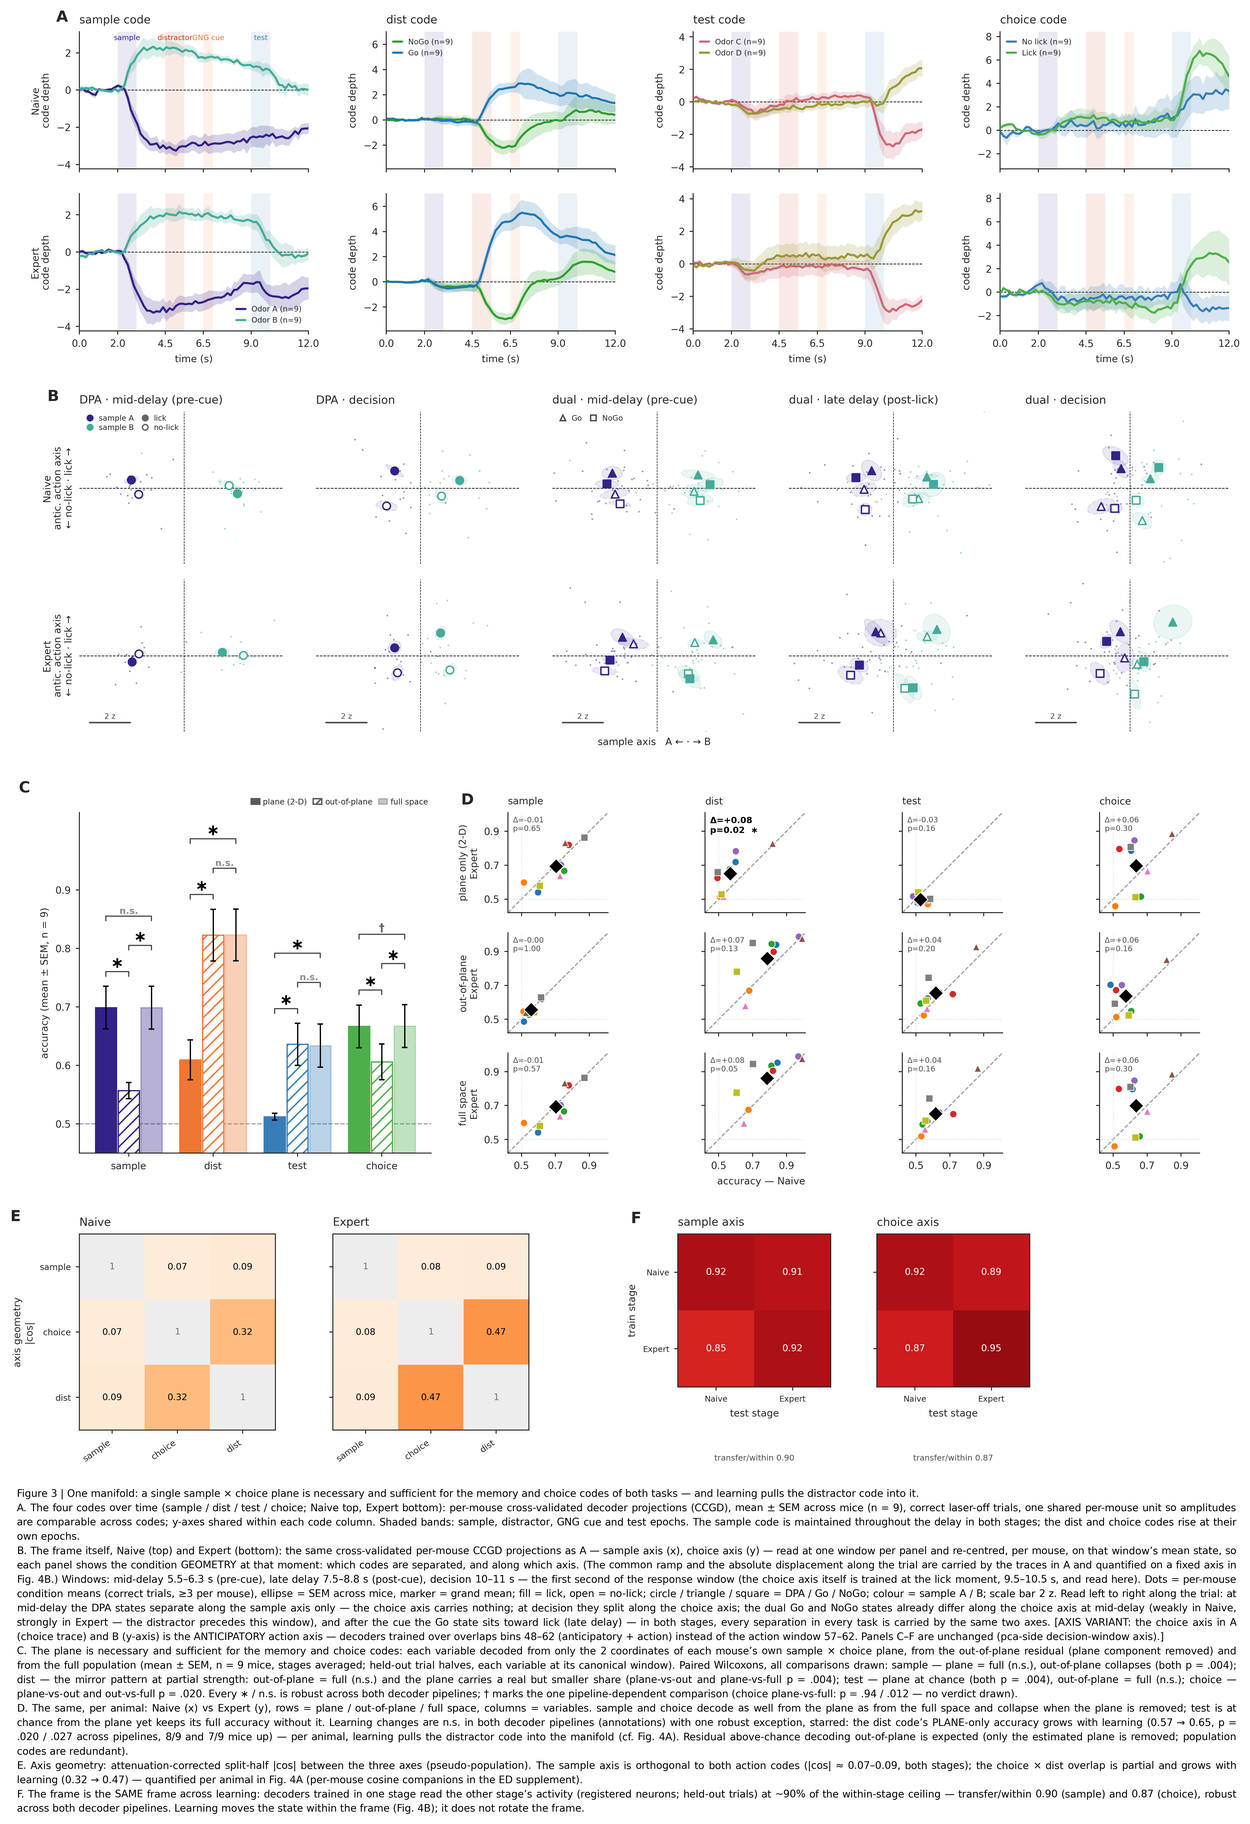
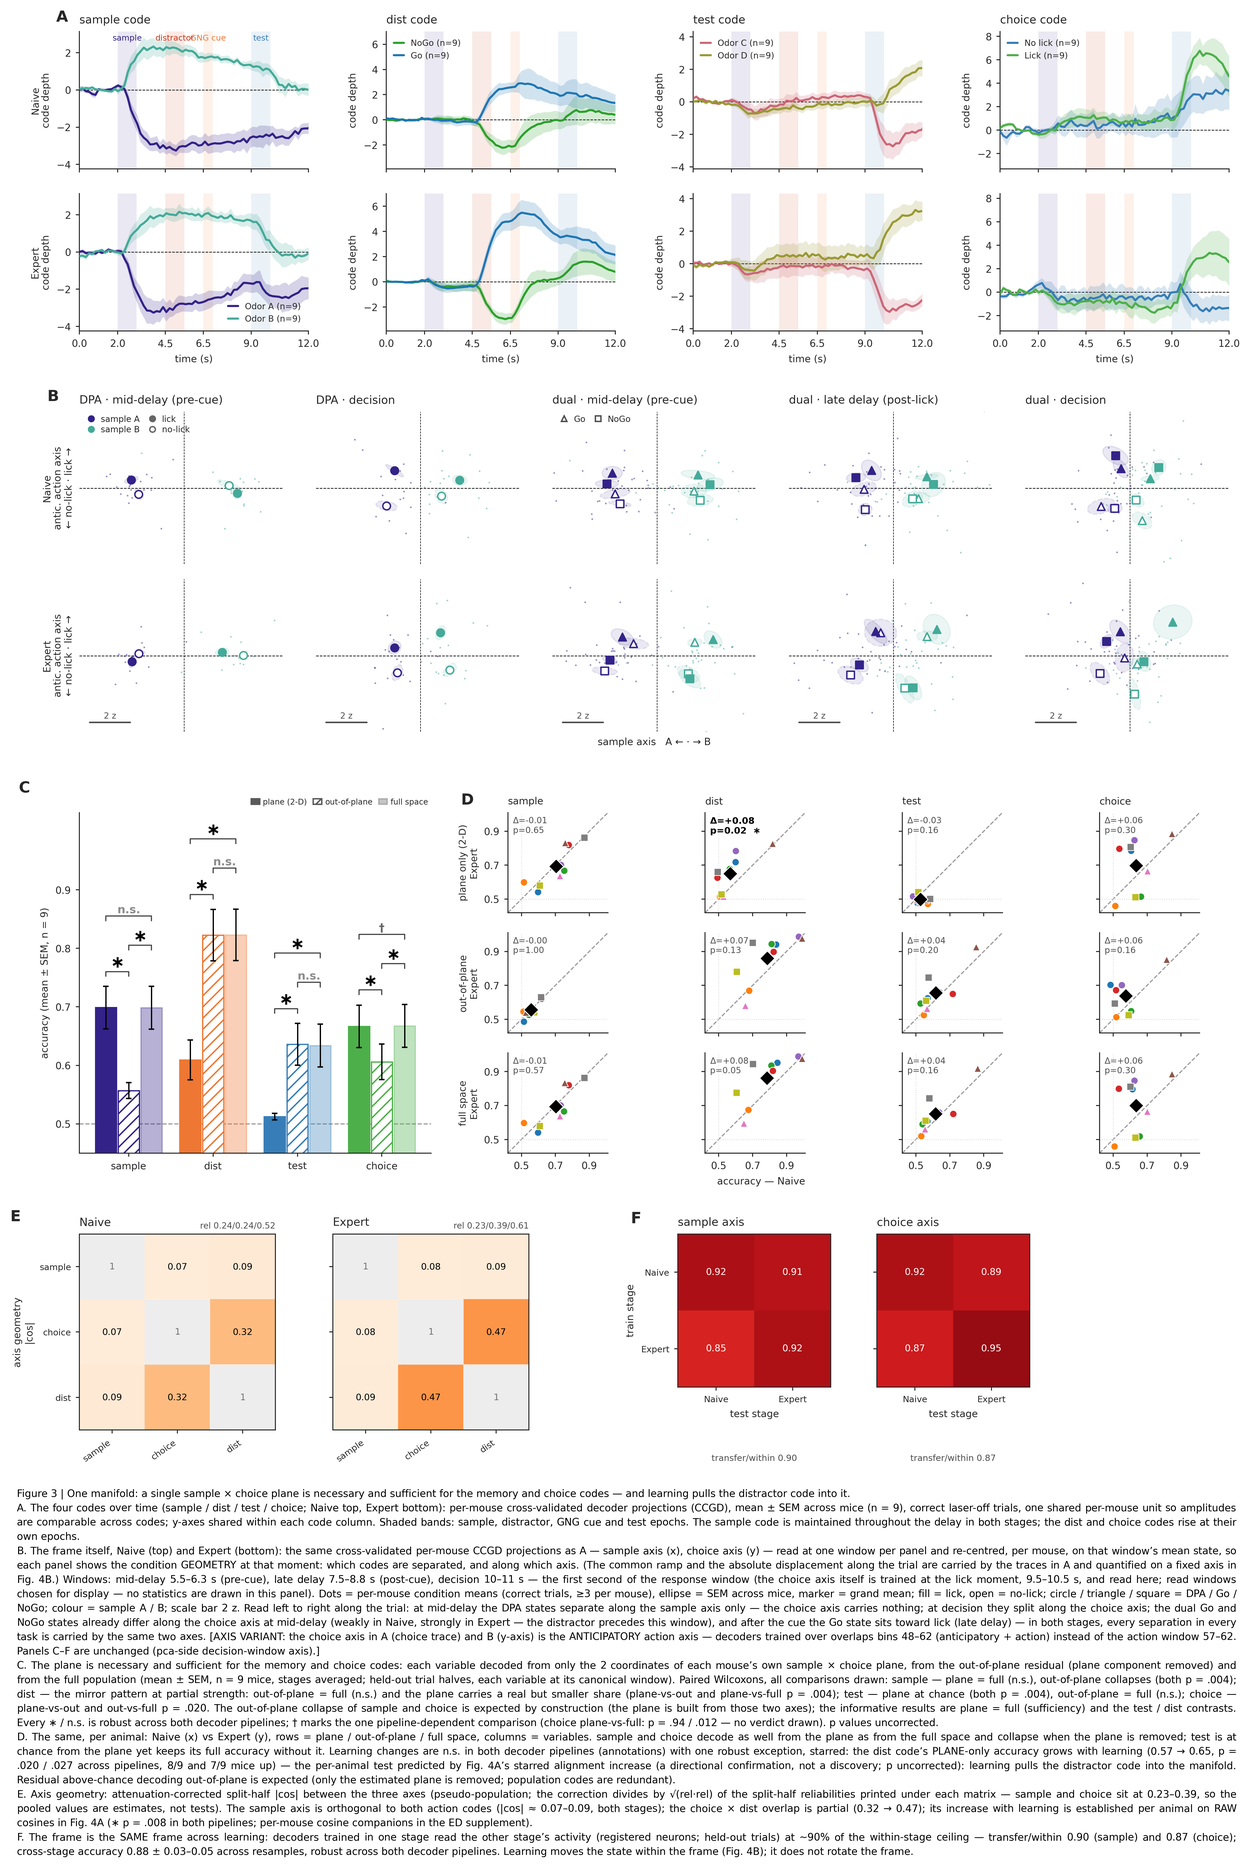
Fig 3: apply code/analysis review fixes (disclosure + hygiene; no numbers changed)
Panel E now prints its split-half reliabilities (sample/choice sit at .23-.39, near
the regime where the attenuation correction is unstable) and the caption calls the
pooled corrected cosines estimates, sourcing the learning growth to Fig 4A's
raw-cosine per-animal star. Caption C: the sample/choice out-of-plane collapse is
labeled by-construction (the plane is built from those axes) and p values are
declared uncorrected; caption D reframes the dist-plane star as the directional
confirmation predicted by Fig 4A, not a discovery. Caption F adds the resample
spread (0.88 +/- 0.03-0.05); caption B discloses display-chosen read windows; title
drops 'of both tasks'. Hygiene: stale header/docstrings fixed (storyboard replay,
SEM, no fits_inputs read), duplicate assert removed, sig markers to house 12/8,
sub-floor annotation fonts bumped.

Claude-Session: https://claude.ai/code/session_01U5815xHXRaRQ7YCxMTgCsM

diff --git a/pca/fig_manifold_main.py b/pca/fig_manifold_main.py
@@ -10,11 +10,11 @@ no-PCA (--nopca, unsuffixed filenames); the PCA-20 build is the ED robustness va
 
   A  the four codes over time (Naive | Expert rows x sample/dist/test/choice), replayed from the
      overlaps CCGD projections (ORIG_TRACES).
-  B  the frame itself — held-out pseudo-trials plotted IN the fixed axes (x = sample axis @ mid-delay,
-     y = behavioural lick axis @ decision, both trained on an independent trial half), a 2 (Naive |
-     Expert) x 5 storyboard (DPA·md -> DPA·decision -> dual·md -> dual·late -> dual·decision), each
-     row in that stage's OWN frame (axes re-fit per stage; added 2026-08-31 — the slimmed figure
-     read empty next to Figs 2/4). Metric, unlike a t-SNE map: every offset is in z units.
+  B  the frame itself — the SAME per-mouse CCGD projections as A (FRAME_STATES /
+     exp_frame_states.py), read at one window per panel and re-centred per mouse on that window's
+     cross-condition mean: a 2 (Naive | Expert) x 5 storyboard (DPA·md -> DPA·decision -> dual·md
+     -> dual·late -> dual·decision) of condition GEOMETRY only — dots = per-mouse condition means,
+     SEM ellipses; the absolute ramp/push lives in A and Fig 4B. Metric: offsets are in z units.
   C  (RESTRUCTURED 2026-08-31: the PROOF row moved up, directly answering B's plotted-in-a-plane
      objection) SUFFICIENCY summary bars: mean ± SEM of the per-mouse plane / out-of-plane / full
      accuracies (PM_PLANE / exp_permouse_plane.py), canonical timeline sample/dist/test/choice,
@@ -32,8 +32,8 @@ no-PCA (--nopca, unsuffixed filenames); the PCA-20 build is the ED robustness va
      — train the sample/choice decoders in one stage, test held-out in the other (registered
      neurons); transfer/within 0.90 / 0.87, knob-robust. Learning moves the state, not the frame.
 
-Reads caches only (no 20 GB X, no overlaps tensor): pca results.pkl + fits_inputs.pkl, and the
-overlaps ccgp caches by absolute path.
+Reads caches only (no 20 GB X, no overlaps tensor): everything comes from pca results.pkl
+(FRAME_STATES / ORIG_TRACES / PM_PLANE / AXIS_FRAME / XSTAGE_DEC).
 Run:  cd /home/leon/dual/pca && /home/leon/mambaforge/envs/dual/bin/python fig_manifold_main.py
 Output: figures/pseudo/dimensionality/{png,svg}/fig_manifold_main.{png,svg}
 """
@@ -144,7 +144,7 @@ def _centered(ENT):
 def panel_a(fig, gsA):
     """The storyboard, 2 rows (Naive | Expert) x 5 windows, replayed from FRAME_STATES (the
     panel-A CCGD projections) and re-centred per mouse per window (_centered): faint dots =
-    per-mouse condition means (>=3 trials), ellipse = 1 SD across mice, marker = the grand mean,
+    per-mouse condition means (>=3 trials), SEM ellipse across mice, marker = the grand mean,
     crosshair = the window's mean state. All ten frames share one x/y range."""
     FS = RES[FS_KEY]
     BOTH = {(st,) + sp: _centered(FS[(st,) + sp]) for st in ['Naive', 'Expert'] for sp in B_SPECS}
@@ -188,7 +188,7 @@ def panel_a(fig, gsA):
                 sx = x0 + 0.05 * (x1 - x0); sy = y0 + 0.06 * (y1 - y0)
                 ax.plot([sx, sx + 2], [sy, sy], '-', color='0.3', lw=1.1)
                 ax.text(sx + 1.0, sy + 0.015 * (y1 - y0), '2 z', ha='center', va='bottom',
-                        fontsize=5.4, color='0.3')
+                        fontsize=6.0, color='0.3')
                 if j == 2:                           # one shared x-label, centred under the grid
                     ax.set_xlabel('sample axis   A ← · → B', fontsize=7)
             if j == 0:
@@ -199,12 +199,12 @@ def panel_a(fig, gsA):
                       mlines.Line2D([], [], marker='o', ls='', ms=4, color=SAMPC[1], label='sample B'),
                       mlines.Line2D([], [], marker='o', ls='', ms=4, mfc='0.4', mec='0.4', label='lick'),
                       mlines.Line2D([], [], marker='o', ls='', ms=4, mfc='w', mec='0.4', label='no-lick')]
-                ax.legend(handles=hs, frameon=False, fontsize=5.4, loc='upper left', ncols=2,
+                ax.legend(handles=hs, frameon=False, fontsize=6.0, loc='upper left', ncols=2,
                           handletextpad=0.15, columnspacing=0.5, labelspacing=0.25, borderaxespad=0.0)
             if r == 0 and j == 2:                    # marker key on the first dual panel
                 hs = [mlines.Line2D([], [], marker='^', ls='', ms=4, mfc='none', mec='0.3', label='Go'),
                       mlines.Line2D([], [], marker='s', ls='', ms=4, mfc='none', mec='0.3', label='NoGo')]
-                ax.legend(handles=hs, frameon=False, fontsize=5.4, loc='upper left', ncols=2,
+                ax.legend(handles=hs, frameon=False, fontsize=6.0, loc='upper left', ncols=2,
                           handletextpad=0.15, columnspacing=0.5, borderaxespad=0.0)
             gm = {cd: P.mean(0) for cd, P in ENT.items()}
             ylk = np.mean([g[1] for cd, g in gm.items() if cd[2]])
@@ -249,17 +249,11 @@ def panel_traj(fig, gsT):
     but they are NOT the pseudo-population z of panel b, which answers a different question
     (position in the frame, not code depth).
     """
-    # panel a must come from the SAME decoder variant as the rest of the figure: the default
-    # figure uses PCA(20) everywhere, so it reads the traces from the _pca20 overlaps tensor
-    # (run_overlaps.py --pca 20); --nopca reads the un-denoised one.
+    # panel a must come from the SAME decoder variant as the rest of the figure (canonical = no-PCA)
     TKEY = ('ORIG_TRACES' if NOPCA else 'ORIG_TRACES_pca20') + ASUF
     assert TKEY in RES, (f'missing {TKEY} — run: cd /home/leon/dual/pca && python '
                          f'exp_traj_orig.py' + ('' if NOPCA else ' --pca')
                          + (' --antact' if ANTACT else ''))
-    assert TKEY in RES, (f'missing {TKEY} — build it with:\n'
-                         '  cd ../overlaps && python run_overlaps.py --scaler none --save-weights '
-                         '--targets sample choice gng test --pca 20\n'
-                         '  cd ../pca && python exp_traj_orig.py --pca')
     TR = RES[TKEY]; xt = np.asarray(RES['ORIG_XTIME'])
     SP = sorted(RES['ORIG_SPECS'], key=lambda sp: CODE_ORDER.index(CODE_NAME[sp['code']]))
     # SHARED y-limits per code COLUMN (across Naive and Expert): the panel's point is the
@@ -284,7 +278,7 @@ def panel_traj(fig, gsT):
                 ax.axvspan(lo, hi, color=col, alpha=0.10, lw=0)
                 if r == 0 and k == 0:
                     ax.text((lo + hi) / 2, 0.98, nm, transform=ax.get_xaxis_transform(),
-                            ha='center', va='top', fontsize=5.2, color=col)
+                            ha='center', va='top', fontsize=5.8, color=col)
             for lv, lab, col in zip(spec['levels'], spec['labels'], spec['colors']):
                 M = np.asarray(TR[(stage, spec['code'], int(lv))], dtype=float)
                 if not len(M):
@@ -300,14 +294,14 @@ def panel_traj(fig, gsT):
             if r == 1:
                 ax.set_xlabel('time (s)', fontsize=7)
                 if k == 0:                              # sample legend lives in the EXPERT panel:
-                    ax.legend(frameon=False, fontsize=5.4, handlelength=1.2, loc='lower right')
+                    ax.legend(frameon=False, fontsize=6.0, handlelength=1.2, loc='lower right')
                     # (the Naive panel's top band carries the epoch names and its lower-right is
                     #  crossed by the Odor-A tail — both collide with a legend there)
             else:
                 ax.tick_params(labelbottom=False)
                 ax.set_title(f"{CODE_NAME[spec['code']]} code", loc='left', fontsize=TITLE_FS)
                 if k > 0:
-                    ax.legend(frameon=False, fontsize=5.4, handlelength=1.2, loc='upper left')
+                    ax.legend(frameon=False, fontsize=6.0, handlelength=1.2, loc='upper left')
             ax.set_ylabel(f'{stage}\ncode depth' if k == 0 else 'code depth', fontsize=7)
     return axes[0]
 
@@ -336,6 +330,11 @@ def panel_b(fig, gsB):
         ax.set_title(stage, loc='left', fontsize=TITLE_FS)
         if j == 0:
             ax.set_ylabel('axis geometry\n|cos|', fontsize=7)
+        # the attenuation correction divides by sqrt(rel_i*rel_j) — disclose the reliabilities
+        # (sample/choice sit at 0.23-0.39; only dist is comfortably high). Review 2026-08-31.
+        ax.text(1.0, 1.02, 'rel ' +
+                '/'.join(f'{r:.2f}' for r in np.asarray(AXF[stage]['rel'])),
+                transform=ax.transAxes, fontsize=6.0, color='0.3', ha='right', va='bottom')
         for sp in ax.spines.values():
             sp.set_visible(True)
         print(f'b: {stage} sample-action {C[0,1]:.2f}  sample-distr {C[0,2]:.2f}  '
@@ -370,16 +369,16 @@ def panel_xstage(fig, gsX):
                 ax.text(j, i, f'{M[i, j]:.2f}', ha='center', va='center', fontsize=6.6,
                         color='w' if M[i, j] > 0.82 else 'k')
         off = np.mean([M[0, 1], M[1, 0]]); dia = np.mean([M[0, 0], M[1, 1]])
-        ax.set_xticks([0, 1]); ax.set_xticklabels(['Naive', 'Expert'], fontsize=5.8)
+        ax.set_xticks([0, 1]); ax.set_xticklabels(['Naive', 'Expert'], fontsize=6.2)
         ax.set_yticks([0, 1])
-        ax.set_yticklabels(['Naive', 'Expert'] if k == 0 else [], fontsize=5.8)
+        ax.set_yticklabels(['Naive', 'Expert'] if k == 0 else [], fontsize=6.2)
         ax.set_title(f'{vn} axis', loc='left', fontsize=TITLE_FS)
         ax.set_anchor('NW')
         if k == 0:
             ax.set_ylabel('train stage', fontsize=7)
         ax.set_xlabel('test stage', fontsize=7)
         ax.text(0.5, -0.44, f'transfer/within {(off - .5) / (dia - .5):.2f}',
-                transform=ax.transAxes, ha='center', va='top', fontsize=5.8, color='0.3')
+                transform=ax.transAxes, ha='center', va='top', fontsize=6.2, color='0.3')
         for sp in ax.spines.values():
             sp.set_visible(True)
         print(f'f-xstage: {vn} within {dia:.2f} cross {off:.2f} ratio {(off - .5) / (dia - .5):.2f}')
@@ -437,7 +436,7 @@ def panel_e_plane(fig, gsE):
             star = '  ∗' if (vn == 'dist' and key == 0 and p < 0.05) else ''
             ax.text(0.05, 0.96, f'Δ={ev.mean() - nv.mean():+.02f}\np={p:.2f}{star}',
                     transform=ax.transAxes, va='top', ha='left',
-                    fontsize=5.4 if not star else 6.2, color='0.3' if not star else 'k',
+                    fontsize=6.0 if not star else 6.5, color='0.3' if not star else 'k',
                     fontweight='normal' if not star else 'bold')
             print(f'f: {rowlab:16s} {vn:7s} {nv.mean():.2f} -> {ev.mean():.2f}  p={p:.2f}{star}')
     return axes[0]
@@ -489,7 +488,7 @@ def panel_f_spaces(fig, gsF):
             return
         sig = p < 0.05
         ax.text((x1 + x2) / 2, y + 0.001, '∗' if sig else 'n.s.', ha='center', va='bottom',
-                fontsize=11 if sig else 6.5, fontweight='bold',
+                fontsize=12 if sig else 8, fontweight='bold',
                 color='k' if sig else '0.55')
         print(f'e-bars: {E_VARS[gi]:7s} {s1}-vs-{s2} p={p:.4f} {"*" if sig else "n.s."}')
 
@@ -555,7 +554,7 @@ plabel(axE, 'E', dx=-0.30); plabel(axF, 'F', dx=-0.24)
 # ── CAPTION (justified, drawn below — same mechanism as Fig 2; edit CAP_PARAS + re-render) ──
 CAP_PARAS = [
     'Figure 3 | One manifold: a single sample × choice plane is necessary and sufficient for the '
-    'memory and choice codes of both tasks — and learning pulls the distractor code into it.',
+    'memory and choice codes — and learning pulls the distractor code into it.',
     'A. The four codes over time (sample / dist / test / choice; Naive top, Expert bottom): per-mouse '
     'cross-validated decoder projections (CCGD), mean ± SEM across mice (n = 9), correct laser-off '
     'trials, one shared per-mouse unit so amplitudes are comparable across codes; y-axes shared '
@@ -569,7 +568,8 @@ CAP_PARAS = [
     'and the absolute displacement along the trial are carried by the traces in A and quantified '
     'on a fixed axis in Fig. 4B.) Windows: mid-delay 5.5–6.3 s (pre-cue), late delay 7.5–8.8 s '
     '(post-cue), decision 10–11 s — the first second of the response window (the choice axis '
-    'itself is trained at the lick moment, 9.5–10.5 s, and read here). Dots = per-mouse '
+    'itself is trained at the lick moment, 9.5–10.5 s, and read here; read windows chosen for '
+    'display — no statistics are drawn in this panel). Dots = per-mouse '
     'condition means (correct trials, ≥3 per '
     'mouse), ellipse = SEM '
     'across mice, marker = grand mean; fill = lick, open = no-lick; '
@@ -588,27 +588,34 @@ CAP_PARAS = [
     'collapses (both p = .004); dist — the mirror pattern at partial strength: out-of-plane = '
     'full (n.s.) and the plane carries a real but smaller share (plane-vs-out and plane-vs-full '
     'p = .004); test — plane at chance (both p = .004), out-of-plane = full (n.s.); choice — '
-    'plane-vs-out and out-vs-full p = .020. Every ∗ / n.s. is robust across both decoder '
-    'pipelines; † marks the one pipeline-dependent comparison (choice plane-vs-full: '
-    'p = .94 / .012 — no verdict drawn).',
+    'plane-vs-out and out-vs-full p = .020. The out-of-plane collapse of sample and choice is '
+    'expected by construction (the plane is built from those two axes); the informative results '
+    'are plane = full (sufficiency) and the test / dist contrasts. Every ∗ / n.s. is robust '
+    'across both decoder pipelines; † marks the one pipeline-dependent comparison (choice '
+    'plane-vs-full: p = .94 / .012 — no verdict drawn). p values uncorrected.',
     'D. The same, per animal: Naive (x) vs Expert (y), rows = plane / out-of-plane / full space, '
     'columns = variables. sample and choice decode as well from the plane as from the full space '
     'and collapse when the plane is removed; test is at chance from the plane yet keeps its full '
     'accuracy without it. Learning changes are n.s. in both decoder pipelines (annotations) with '
     'one robust exception, starred: the dist code’s PLANE-only accuracy grows with learning '
-    '(0.57 → 0.65, p = .020 / .027 across pipelines, 8/9 and 7/9 mice up) — per animal, learning '
-    'pulls the distractor code into the manifold (cf. Fig. 4A). Residual above-chance decoding '
-    'out-of-plane is expected (only the estimated plane is removed; population codes are '
-    'redundant).',
+    '(0.57 → 0.65, p = .020 / .027 across pipelines, 8/9 and 7/9 mice up) — the per-animal test '
+    'predicted by Fig. 4A’s starred alignment increase (a directional confirmation, not a '
+    'discovery; p uncorrected): learning pulls the distractor code into the manifold. Residual '
+    'above-chance decoding out-of-plane is expected (only the estimated plane is removed; '
+    'population codes are redundant).',
     'E. Axis geometry: attenuation-corrected split-half |cos| between the three axes '
-    '(pseudo-population). The sample axis is orthogonal to both action codes (|cos| ≈ 0.07–0.09, '
-    'both stages); the choice × dist overlap is partial and grows with learning '
-    f'({np.asarray(AXF["Naive"]["cos"])[1, 2]:.2f} → {np.asarray(AXF["Expert"]["cos"])[1, 2]:.2f}) — '
-    'quantified per animal in Fig. 4A (per-mouse cosine companions in the ED supplement).',
+    '(pseudo-population; the correction divides by √(rel·rel) of the split-half reliabilities '
+    'printed under each matrix — sample and choice sit at 0.23–0.39, so the pooled values are '
+    'estimates, not tests). The sample axis is orthogonal to both action codes (|cos| ≈ '
+    '0.07–0.09, both stages); the choice × dist overlap is partial '
+    f'({np.asarray(AXF["Naive"]["cos"])[1, 2]:.2f} → {np.asarray(AXF["Expert"]["cos"])[1, 2]:.2f}); '
+    'its increase with learning is established per animal on RAW cosines in Fig. 4A (∗ p = .008 '
+    'in both pipelines; per-mouse cosine companions in the ED supplement).',
     'F. The frame is the SAME frame across learning: decoders trained in one stage read the other '
     'stage’s activity (registered neurons; held-out trials) at ~90% of the within-stage ceiling — '
-    'transfer/within 0.90 (sample) and 0.87 (choice), robust across both decoder pipelines. '
-    'Learning moves the state within the frame (Fig. 4B); it does not rotate the frame.',
+    'transfer/within 0.90 (sample) and 0.87 (choice); cross-stage accuracy 0.88 ± 0.03–0.05 '
+    'across resamples, robust across both decoder pipelines. Learning moves the state within the '
+    'frame (Fig. 4B); it does not rotate the frame.',
 ]
 if ANTACT:
     CAP_PARAS = [p + (' [AXIS VARIANT: the choice axis in A (choice trace) and B (y-axis) is '

diff --git a/docs/pca/dimensionality.md b/docs/pca/dimensionality.md
@@ -427,3 +427,28 @@ them).
   outlier (+25 z raw, 15 trials — real per-mouse lick-amplitude heterogeneity, the known
   0.1–43× tensor scale spread) is window-invariant; SEM ellipses absorb it. All THREE caches
   rebuilt (canonical/_pca20/_antact); caption B now defines all three windows.
+
+### 2026-08-31 code/analysis review of Fig 3 — verdict + fixes applied
+Deep review (all 5 scripts read, both pipelines re-run, every drawn stat re-verified): NO blocking
+rigor issue — no train/test leakage anywhere (PM_PLANE fits axes+classifiers on half 1, tests
+half 2, out-of-plane uses the train-estimated Q; XSTAGE trains part-0 / tests disjoint part-2);
+"registered neurons" literally true (VALIDIX identical across stages, all 9 mice); 9/9 mice
+complete for every variable; Wilcoxon floor .0039 = all-9-one-direction; (plane,full,out) index
+mapping consistent; caption numbers reproduce in BOTH pipelines; seeds fixed (bit-reproducible).
+FINDINGS + FIXES (all applied):
+1. **Panel E attenuation correction runs at low rel** — sample .23–.24, choice .24 (Naive)/.39
+   (Expert); only dist healthy (.52–.61); denominators for the 0.32→0.47 growth differ 2×
+   between stages. FIX: rel now printed top-right of each matrix; caption says the pooled values
+   are "estimates, not tests" and sources the growth to Fig 4A's RAW-cosine per-animal star.
+2. **No multiple-comparison correction** (C: 12 brackets, D: 12 tests; the dist-plane star
+   .020/.027 would not survive Holm×12). FIX: caption D reframes it as "the per-animal test
+   predicted by Fig 4A's starred alignment increase (a directional confirmation, not a
+   discovery; p uncorrected)"; caption C adds "p values uncorrected".
+3. **Sample/choice out-of-plane collapse is by construction** (the plane is built FROM those
+   axes). FIX: caption C states it; informative results = plane=full + the test/dist contrasts.
+4. Docstring rot fixed (header B description, fits_inputs claim, "1 SD"→SEM, stale PCA-20
+   comment, duplicate assert); C sig markers to house 12/8; sub-floor fonts bumped (5.2–5.8 →
+   5.8–6.2); caption F adds cross-stage 0.88 ± 0.03–0.05 across resamples; caption B disclosés
+   "read windows chosen for display — no statistics drawn"; title drops "of both tasks" (choice
+   sufficiency is DPA-tested; the dual evidence is B/F/Fig 4A).
+Verified-stable: XSTAGE cross 0.880±0.046 (sample) / ±0.027 (choice) across 8 reps.
